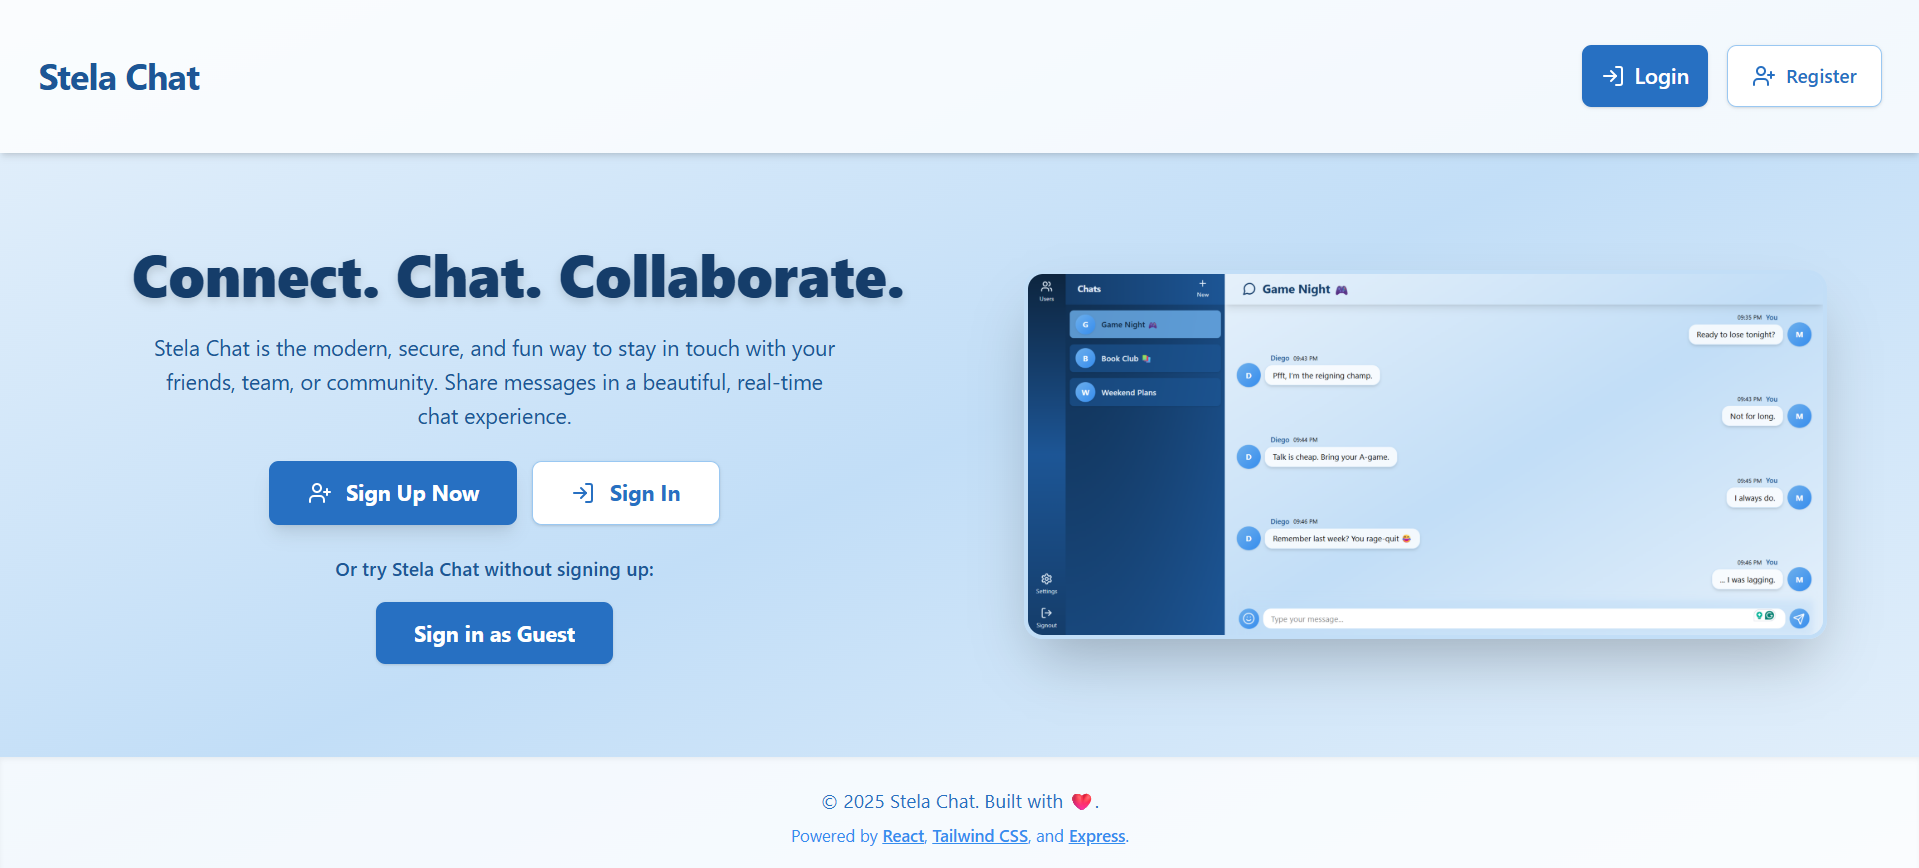
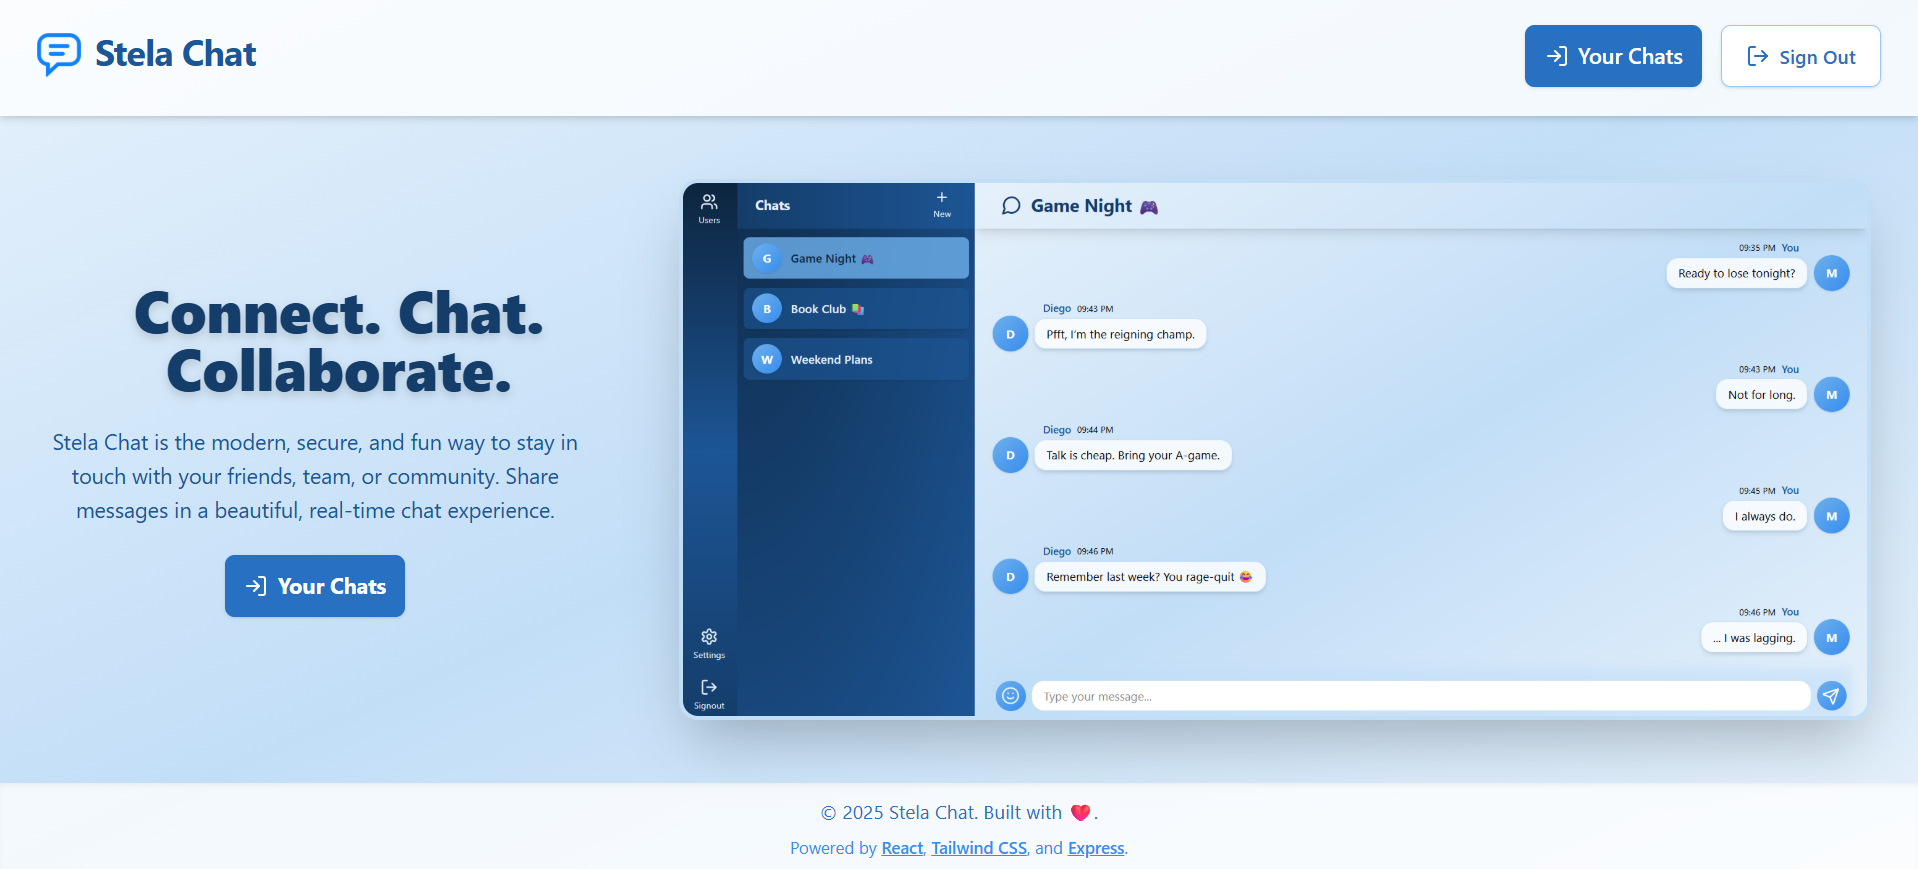
Fix responsive issues on home page

diff --git a/client/src/components/Header.tsx b/client/src/components/Header.tsx
@@ -8,107 +8,116 @@ export default function Header({ userIsNotLoggedIn }: { userIsNotLoggedIn: boole
   const signout = useSignout();
 
   return (
-    <header className="flex items-center justify-between px-8 py-6 bg-white/80 shadow-md">
-      <h1 className="text-3xl grow font-bold pr-1 text-primary-700 tracking-tight">Stela Chat</h1>
-      <nav className="text-primary-700 font-semibold">
-        {/* Hamburger menu for small screens */}
-        <div className="sm:hidden relative">
-          <button
-            className="p-2 rounded-lg hover:bg-primary-100/80 "
-            aria-label="Open menu"
-            onClick={() => setMenuOpen(!menuOpen)}
-          >
-            <Menu className="w-7 h-7" />
-          </button>
-          {menuOpen && (
-            <div className="absolute right-0 mt-2 w-40 bg-white rounded-lg shadow-lg border border-primary-200 z-50 flex flex-col">
-              {userIsNotLoggedIn ? (
-                <>
-                  <Link
-                    to="/login"
-                    className="flex items-center gap-2 px-4 py-2 hover:bg-primary-100/80 text-primary-700 rounded-t-lg"
-                    onClick={() => setMenuOpen(false)}
-                  >
-                    <LogIn className="w-4 h-4" />
-                    Login
-                  </Link>
-                  <Link
-                    to="/register"
-                    className="flex items-center gap-2 px-4 py-2 hover:bg-primary-100/80 text-primary-700"
-                    onClick={() => setMenuOpen(false)}
-                  >
-                    <UserPlus className="w-4 h-4" />
-                    Register
-                  </Link>
-                </>
-              ) : (
-                <>
-                  <Link
-                    to="/chat"
-                    className="flex items-center gap-2 px-4 py-2 hover:bg-primary-100/80 text-primary-700 rounded-t-lg"
-                    onClick={() => setMenuOpen(false)}
-                  >
-                    <LogIn className="w-4 h-4" />
-                    Your Chats
-                  </Link>
-                  <button
-                    type="button"
-                    className="flex items-center gap-2 px-4 py-2 hover:bg-primary-100/80 text-primary-700 cursor-pointer"
-                    onClick={() => {
-                      signout();
-                      setMenuOpen(false);
-                    }}
-                  >
-                    <LogOut className="w-4 h-4" />
-                    Sign Out
-                  </button>
-                </>
-              )}
-            </div>
-          )}
-        </div>
-        {/* Buttons for sm+ screens */}
-        <div className="hidden sm:flex gap-4 py-3.5">
-          {userIsNotLoggedIn ? (
-            <>
-              <Link
-                to="/login"
-                className="inline-flex items-center gap-2 px-4 py-3 bg-primary-600 text-white text-lg rounded-lg shadow hover:bg-primary-700 transition-colors"
-              >
-                <LogIn className="w-5 h-5" />
-                Login
-              </Link>
+    <header className="flex justify-center px-8 py-2.5 bg-white/80 shadow-md">
+      <div className="w-[min(100%,2200px)] flex items-center justify-between">
+        <h1 className="text-3xl grow font-bold pr-1 text-primary-700 tracking-tight">
+          <img
+            src="/logo.png"
+            alt="App screenshot wide"
+            className="inline-block w-9 h-auto object-cover mr-3 pb-1"
+          />
+          Stela Chat
+        </h1>
+        <nav className="text-primary-700 font-semibold">
+          {/* Hamburger menu for small screens */}
+          <div className="sm:hidden relative">
+            <button
+              className="p-2 rounded-lg hover:bg-primary-100/80 "
+              aria-label="Open menu"
+              onClick={() => setMenuOpen(!menuOpen)}
+            >
+              <Menu className="w-7 h-7" />
+            </button>
+            {menuOpen && (
+              <div className="absolute right-0 mt-2 w-40 bg-white rounded-lg shadow-lg border border-primary-200 z-50 flex flex-col">
+                {userIsNotLoggedIn ? (
+                  <>
+                    <Link
+                      to="/login"
+                      className="flex items-center gap-2 px-4 py-2 hover:bg-primary-100/80 text-primary-700 rounded-t-lg"
+                      onClick={() => setMenuOpen(false)}
+                    >
+                      <LogIn className="w-4 h-4" />
+                      Login
+                    </Link>
+                    <Link
+                      to="/register"
+                      className="flex items-center gap-2 px-4 py-2 hover:bg-primary-100/80 text-primary-700"
+                      onClick={() => setMenuOpen(false)}
+                    >
+                      <UserPlus className="w-4 h-4" />
+                      Register
+                    </Link>
+                  </>
+                ) : (
+                  <div>
+                    <Link
+                      to="/chat"
+                      className="flex items-center gap-2 px-4 py-2 hover:bg-primary-100/80 text-primary-700 rounded-t-lg"
+                      onClick={() => setMenuOpen(false)}
+                    >
+                      <LogIn className="w-4 h-4" />
+                      Your Chats
+                    </Link>
+                    <button
+                      type="button"
+                      className="flex items-center gap-2 px-4 py-2 hover:bg-primary-100/80 text-primary-700 cursor-pointer"
+                      onClick={() => {
+                        signout();
+                        setMenuOpen(false);
+                      }}
+                    >
+                      <LogOut className="w-4 h-4" />
+                      Sign Out
+                    </button>
+                  </div>
+                )}
+              </div>
+            )}
+          </div>
+          {/* Buttons for sm+ screens */}
+          <div className="hidden sm:flex gap-4 py-3.5">
+            {userIsNotLoggedIn ? (
+              <>
+                <Link
+                  to="/login"
+                  className="inline-flex items-center gap-2 px-4 py-3 bg-primary-600 text-white text-lg rounded-lg shadow hover:bg-primary-700 transition-colors"
+                >
+                  <LogIn className="w-5 h-5" />
+                  Login
+                </Link>
 
-              <Link
-                to="/register"
-                className="inline-flex items-center gap-2 px-5 py-2 bg-white text-primary-600 rounded-lg border border-primary-300 shadow hover:bg-primary-100/80 transition-colors font-semibold"
-              >
-                <UserPlus className="w-5 h-5" />
-                Register
-              </Link>
-            </>
-          ) : (
-            <>
-              <Link
-                className="inline-flex items-center gap-2 px-4 py-3 bg-primary-600 text-white text-lg rounded-lg shadow hover:bg-primary-700 transition-colors"
-                to="/chat"
-              >
-                <LogIn className="w-5 h-5" />
-                Your Chats
-              </Link>
+                <Link
+                  to="/register"
+                  className="inline-flex items-center gap-2 px-5 py-2 bg-white text-primary-600 rounded-lg border border-primary-300 shadow hover:bg-primary-100/80 transition-colors font-semibold"
+                >
+                  <UserPlus className="w-5 h-5" />
+                  Register
+                </Link>
+              </>
+            ) : (
+              <>
+                <Link
+                  className="inline-flex items-center gap-2 px-4 py-3 bg-primary-600 text-white text-lg rounded-lg shadow hover:bg-primary-700 transition-colors"
+                  to="/chat"
+                >
+                  <LogIn className="w-5 h-5" />
+                  Your Chats
+                </Link>
 
-              <button
-                type="button"
-                className="inline-flex items-center gap-2 px-5 py-2 bg-white text-primary-600 rounded-lg border border-primary-300 shadow hover:bg-primary-100/80 transition-colors font-semibold"
-                onClick={() => signout()}
-              >
-                <LogOut className="w-5 h-5" />
-                Sign Out
-              </button>
-            </>
-          )}
-        </div>
-      </nav>
+                <button
+                  type="button"
+                  className="inline-flex items-center gap-2 px-5 py-2 bg-white text-primary-600 rounded-lg border border-primary-300 shadow hover:bg-primary-100/80 transition-colors font-semibold"
+                  onClick={() => signout()}
+                >
+                  <LogOut className="w-5 h-5" />
+                  Sign Out
+                </button>
+              </>
+            )}
+          </div>
+        </nav>
+      </div>
     </header>
   );
 }

diff --git a/client/src/pages/Home.tsx b/client/src/pages/Home.tsx
@@ -15,8 +15,8 @@ export default function Home() {
       <Header userIsNotLoggedIn={userIsNotLoggedIn} />
 
       {/* Hero Section */}
-      <section className="flex-1 flex flex-col md:flex-row items-center justify-center text-center md:text-left p-10 gap-1 md:gap-8">
-        <div className="flex-1 flex flex-col items-center text-center">
+      <section className="self-center max-w-[2200px] flex-1 flex flex-col md:flex-row items-center justify-center text-center md:text-left p-10 gap-1 md:gap-8 xl:gap-20">
+        <div className="shrink flex flex-col items-center text-center">
           <h2 className="text-5xl font-extrabold md:ml-10 text-primary-800 drop-shadow-lg">
             Connect. Chat. Collaborate.
           </h2>
@@ -58,16 +58,16 @@ export default function Home() {
           )}
         </div>
         {/* Image Section - appears below text on mobile, right on md+ */}
-        <div className="flex-1 flex justify-center items-center w-full mt-8 md:mt-0">
+        <div className="grow flex flex-wrap justify-center items-center w-full mt-8 md:mt-0">
           {/* Wide image for lg screens */}
           <img
-            src="../../public/screenshots/widescreen.png"
+            src="/screenshots/widescreen.png"
             alt="App screenshot wide"
-            className="hidden lg:block rounded-2xl shadow-2xl border-4 border-primary-200 w-[clamp(600px,90%,1200px)] h-auto object-cover"
+            className="hidden lg:block rounded-2xl shadow-2xl border-4 border-primary-200 w-full h-auto object-cover"
           />
           {/* Small image for mobile screens */}
           <img
-            src="../../public/screenshots/smallscreen.png"
+            src="/screenshots/smallscreen.png"
             alt="App screenshot small"
             className="block lg:hidden rounded-2xl shadow-xl border-4 border-primary-200 w-[220px] h-auto object-cover"
           />

diff --git a/client/index.html b/client/index.html
@@ -2,10 +2,10 @@
 <html lang="en">
   <head>
     <meta charset="UTF-8" />
-    <link rel="icon" type="image/svg+xml" href="/vite.svg" />
+    <link rel="icon" type="image/x-icon" href="/favicon.ico" />
     <meta name="viewport" content="width=device-width, initial-scale=1.0" />
     <link href="/src/index.css" rel="stylesheet">
-    <title>Vite + React + TS</title>
+    <title>Stela Chat</title>
   </head>
   <body>
     <div id="root"></div>

diff --git a/client/src/components/Footer.tsx b/client/src/components/Footer.tsx
@@ -1,6 +1,6 @@
 export default function Footer() {
   return (
-    <footer className="mt-auto py-6 text-center text-primary-600 bg-white/80 shadow-inner">
+    <footer className="mt-auto py-3 text-center text-primary-600 bg-white/80 shadow-inner">
       &copy; {new Date().getFullYear()} Stela Chat. Built with ❤️.
       <br />
       <span className="block mt-2 text-sm text-primary-500">

diff --git a/README.md b/README.md
@@ -1,6 +1,6 @@
 # Stela Chat 💬
 
-A modern, full-featured messaging app built as part of [The Odin Project](https://www.theodinproject.com/) web development curriculum. Stela Chat is designed with a focus on real-time communication, beautiful UI, and robust security, following JAMstack principles for a fast and scalable experience.
+A modern, full-featured messaging app built as part of [The Odin Project](https://www.theodinproject.com/) web development curriculum. Stela Chat is designed with a focus on real-time communication, beautiful UI, and robust security, following the [JAMstack](https://jamstack.org/) architecture.
 
 ## ✨ Features
 - Real-time chat with multiple users and channels